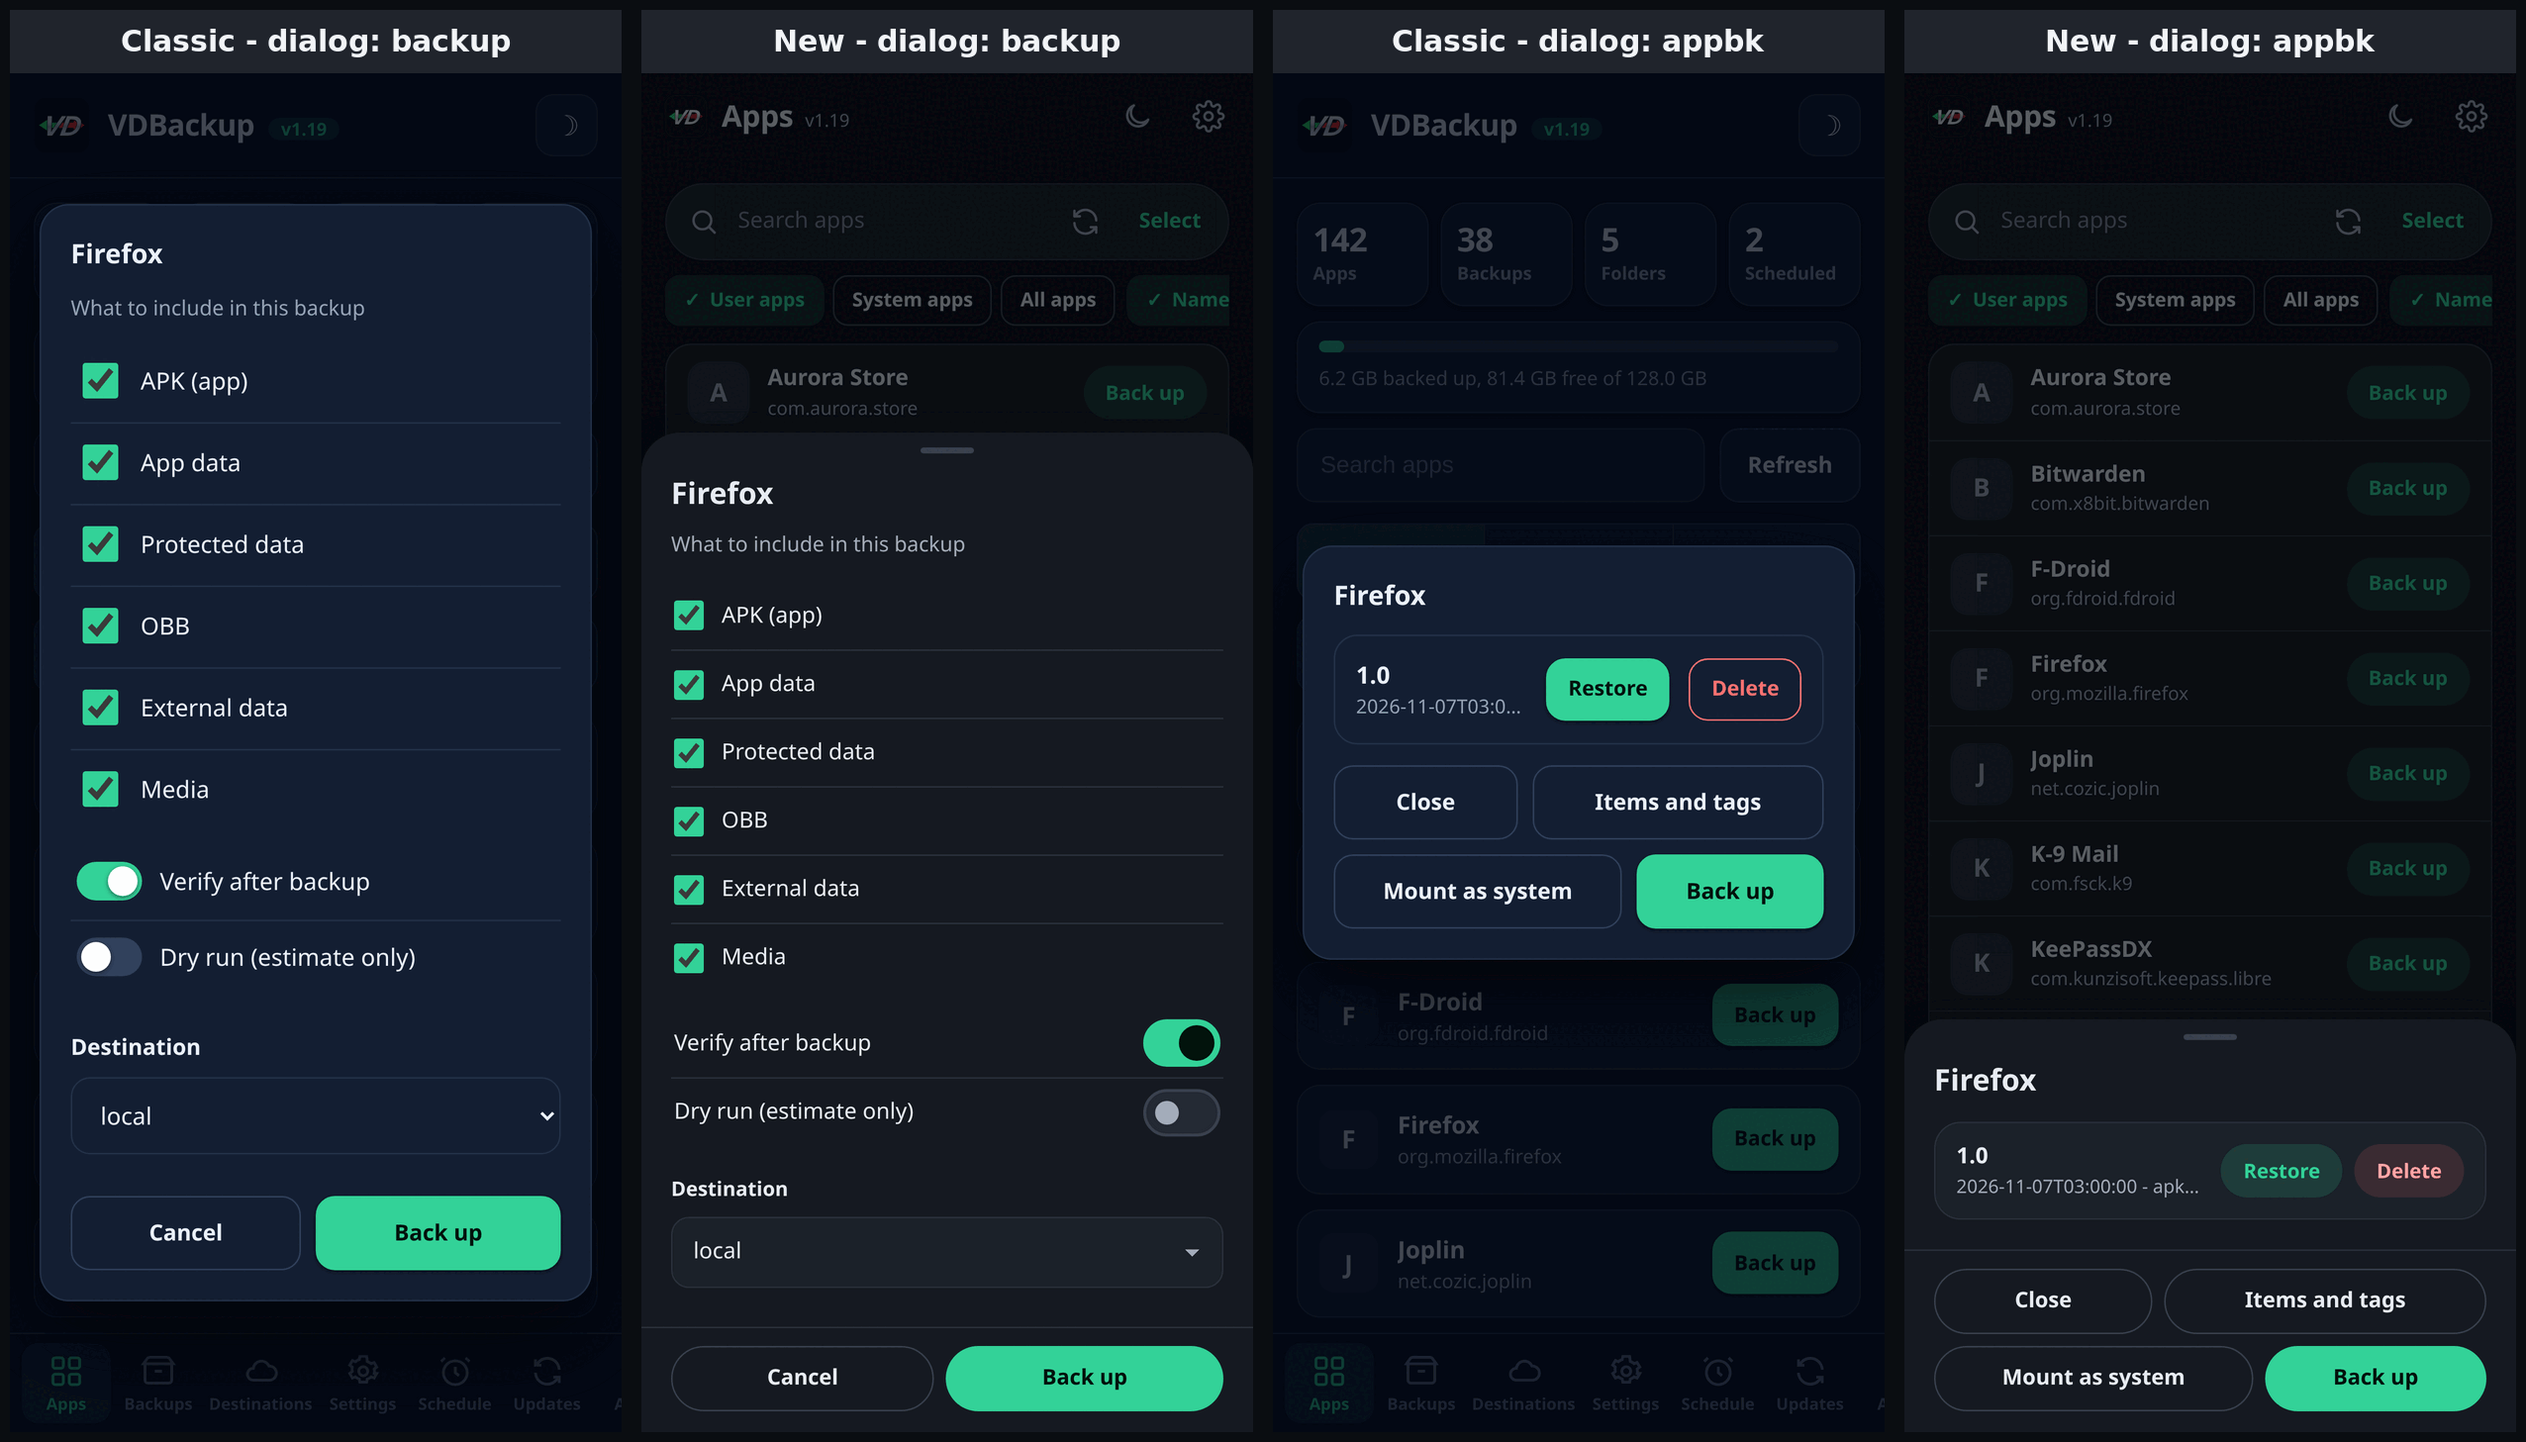
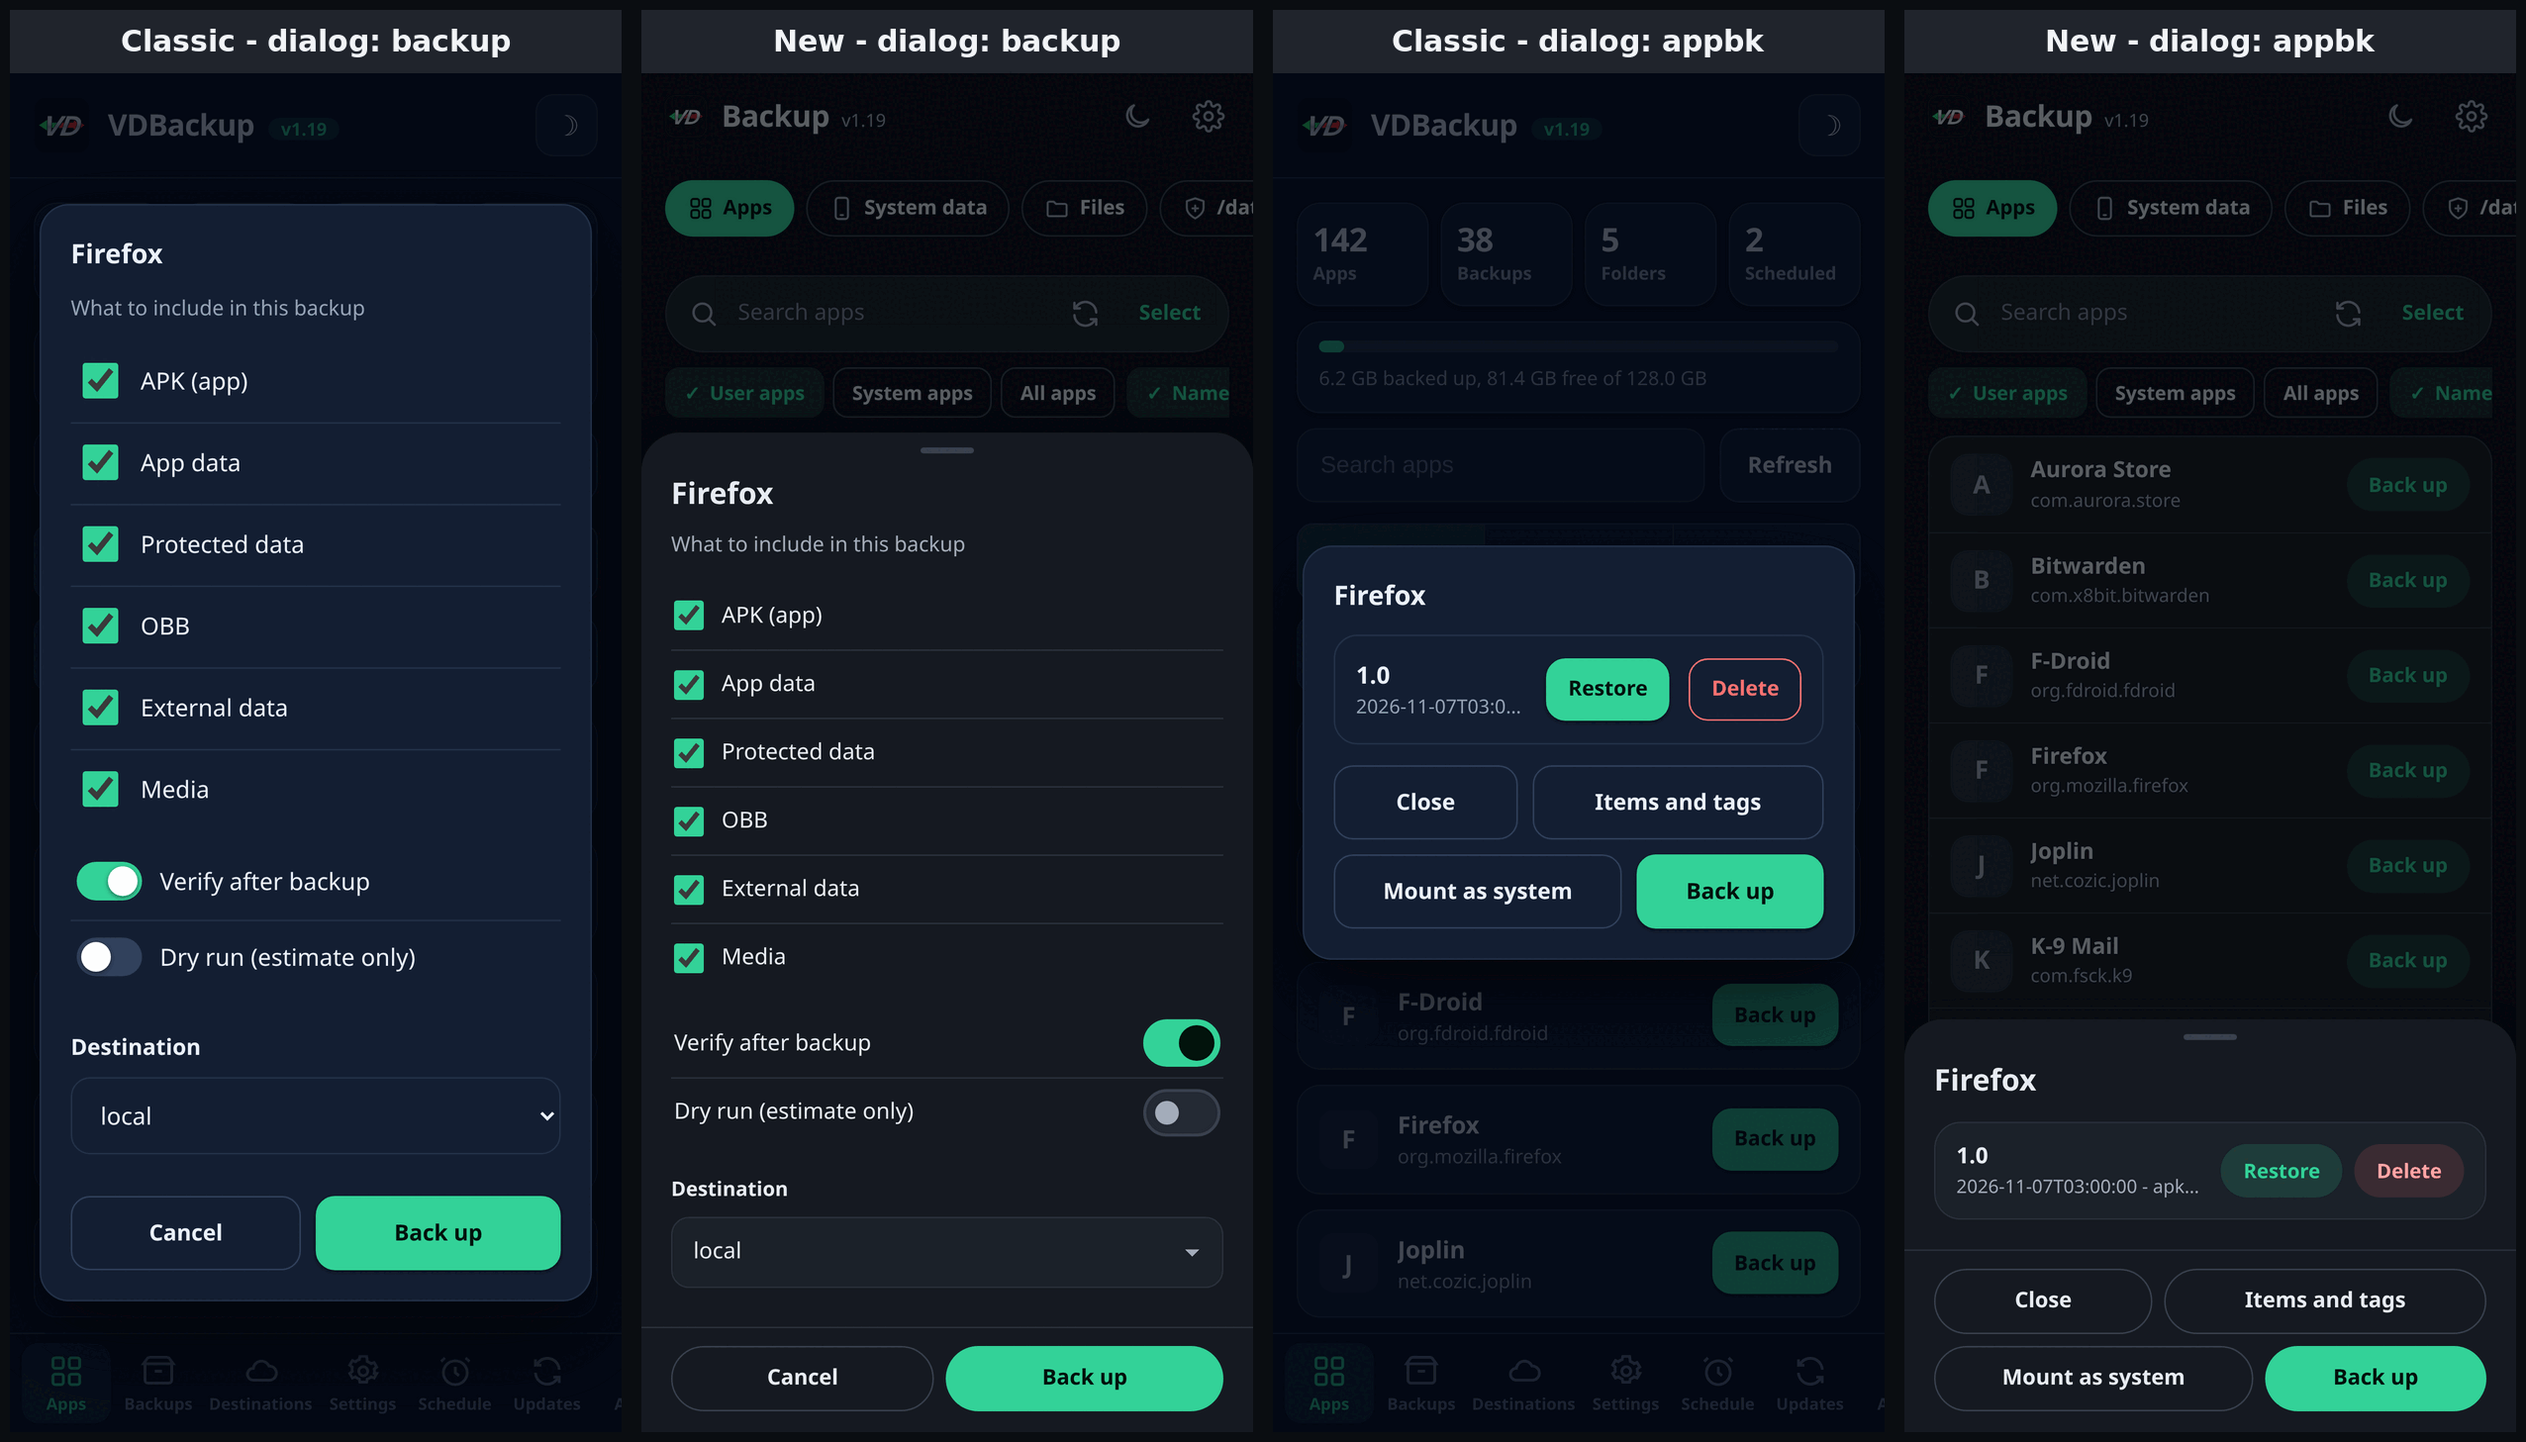
docs: round 2 comparison screenshots and notes (Backup/Restore tabs, unified restore list)

diff --git a/tools/screenshots/shoot_ui_next.py b/tools/screenshots/shoot_ui_next.py
@@ -91,6 +91,13 @@ def extra_fixtures(fix, ui):
          "created_at": shoot.ts(5, 20, 0)}]}
     fix["adb-backups"] = {"backups": [
         {"ref": "/sdcard/VDBackup/.adb/1", "created_at": shoot.ts(4, 11, 30), "mode": "total"}]}
+    fix["dests-list"] = {"dests": list(fix["dests-list"]["dests"]) + [{"id": "telegram", "type": "telegram"}]}
+    fix["telegram-list"] = {"ok": True, "backups": [
+        {"message_id": 21, "name": "org.telegram.messenger__20261107T201500Z_54321.vdb.tar", "size": 187000000},
+        {"message_id": 22, "name": "com.whatsapp__20261106T081000Z_231.vdb.tar", "size": 412000000}]}
+    fix["rclone-list"] = {"ok": True, "dest": "nas", "backups": [
+        {"dest": "nas", "rref": "com.nextcloud.client/20261105T030000Z_310", "package": "com.nextcloud.client", "tsvc": "20261105T030000Z_310"}]}
+    fix["restic-list"] = {"ok": True, "dest": "snapshots", "backups": []}
     cfg = dict(fix["config-get"])
     cfg["ui"] = ui
     fix["config-get"] = cfg
@@ -131,7 +138,7 @@ def main():
                         page.add_init_script(shoot.MOCK_JS % (fix_json, lang))
                         page.add_init_script("try{localStorage.setItem('vdb_theme','%s');localStorage.setItem('vdb_ui','%s')}catch(e){}" % (theme, ui))
                         page.goto(url, wait_until="networkidle")
-                        page.wait_for_timeout(900)
+                        page.wait_for_timeout(2500 if ui == "next" else 900)
                         for ctab, ntab, scroll, name in SCREENS:
                             tab = ntab if ui == "next" else ctab
                             page.evaluate("(t) => navTab(t)", tab)

diff --git a/docs/ui-next-screenshots/README.md b/docs/ui-next-screenshots/README.md
@@ -94,3 +94,31 @@ Missing: nothing found. Not device-tested yet (mock harness only).
 Regenerate: `python3 tools/screenshots/shoot_ui_next.py` (both interfaces, en+ar,
 dark+light, `--dialogs` for the backup and app dialogs). The sheets here put Classic
 (top row) over New (bottom row).
+
+## Round 2 (device feedback on v1.19-next)
+
+- **Backup and Restore tabs.** Nav is Home, Backup, Restore, Schedule, More. Backup has
+  Apps / System data / Files / /data/adb chips with the backup forms; Restore has the
+  same chips plus Import and holds every list and restore action.
+- **Every backup in one list.** Restore > Apps shows local, Telegram, rclone, Google Drive,
+  restic (Snapshot) and remote Mirror backups together (`next/js/sources.js`,
+  `next/js/restore.js`). Remote sources load lazily one after another, are cached, and
+  show their own loading or error state (with Retry, or Sign in for Telegram). Chips filter
+  by source, type, encrypted, pinned and tag; sort by newest, oldest, name or size. A
+  remote backup restores through the verbs the Telegram/cloud dialogs use (pull, then
+  the normal restore; restic by snapshot id; Mirror by dest + package). A backup that is
+  both local and remote is one row with both badges. New helper verbs: `restic-list`,
+  `rclone-list {mirrors:true}`; `list-backups` now carries `size`.
+- **Home counts every source** (apps backed up, backups) and lists where they are with
+  size; a row or counter opens Restore pre-filtered. "Apps" means apps that have a backup.
+- **Segmented controls wrap** instead of squeezing; destination kinds are cards (icon,
+  title, subtitle), two per row.
+- **Running operations** are a one-line bar above the nav; a tap opens the full sheet.
+  Optional progress notification (Settings, off by default) via `cmd notification post`.
+- **Dialogs are one stack** (`next/js/modals.js`): the newest is on top with its own
+  backdrop and focus; Back, Escape and a backdrop tap close only the top one, through its
+  own Cancel/Close so the engine's promise settles; page scroll is locked meanwhile.
+- **Fast start** (`next/js/boot.js`): the seven small boot calls are one `bootstrap` exec;
+  the app, backup and schedule lists render from the last good copy and are redrawn only
+  if the fresh data differs; Home paints the last numbers on the first frame; skeletons
+  only on the very first open.
